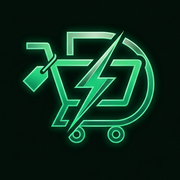
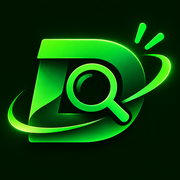
refactor: update branding assets
Replace legacy logo and favicon files with updated versions to align with the new brand identity.

diff --git a/src/components/BrandLogo.tsx b/src/components/BrandLogo.tsx
@@ -1,4 +1,4 @@
-import logoBadgeUrl from '../assets/images/achadinhos_deco_logo_badge.png';
+import { comBasePath } from '../utils/router';
 
 interface BrandLogoProps {
   tamanho?: 'sm' | 'md' | 'lg';
@@ -17,17 +17,22 @@ export function BrandLogo({
   mostrarTexto = true,
   subtitulo,
 }: BrandLogoProps) {
+  const logoSrc = comBasePath(
+    '/assets/aistudio/Emblema_Neon_de_Busca_Circular_cd1f0c41.png',
+    import.meta.env.BASE_URL
+  );
+
   return (
     <span className="inline-flex items-center gap-2.5 whitespace-nowrap shrink-0">
       <span
-        className={`${TAMANHOS_ICONE[tamanho]} overflow-hidden border border-[#22C55E]/40 bg-[#060E07] shadow-[0_0_20px_rgba(34,197,94,0.28)] flex items-center justify-center shrink-0`}
+        className={`${TAMANHOS_ICONE[tamanho]} overflow-hidden border border-[#22C55E]/40 bg-[#051105] shadow-[0_0_20px_rgba(34,197,94,0.28)] flex items-center justify-center shrink-0`}
       >
         <img
-          src={logoBadgeUrl}
+          src={logoSrc}
           alt={mostrarTexto ? '' : 'Logo Achadinhos do Deco'}
           aria-hidden={mostrarTexto ? true : undefined}
           referrerPolicy="no-referrer"
-          className="w-full h-full object-cover"
+          className="w-full h-full object-cover scale-110"
         />
       </span>
       {mostrarTexto && (
